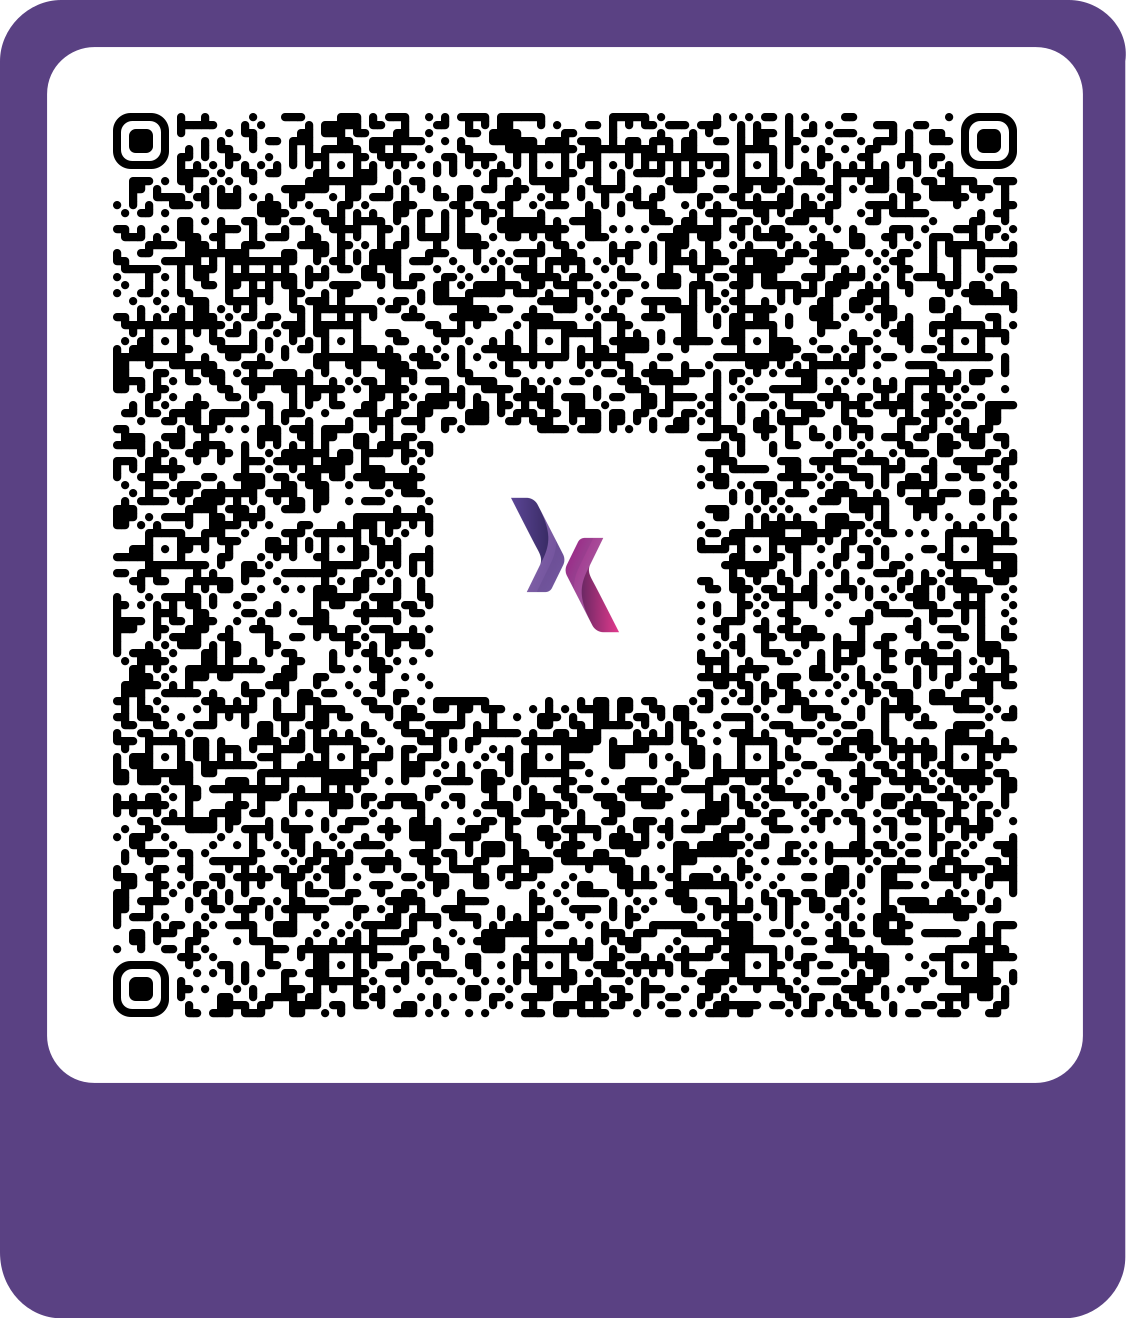
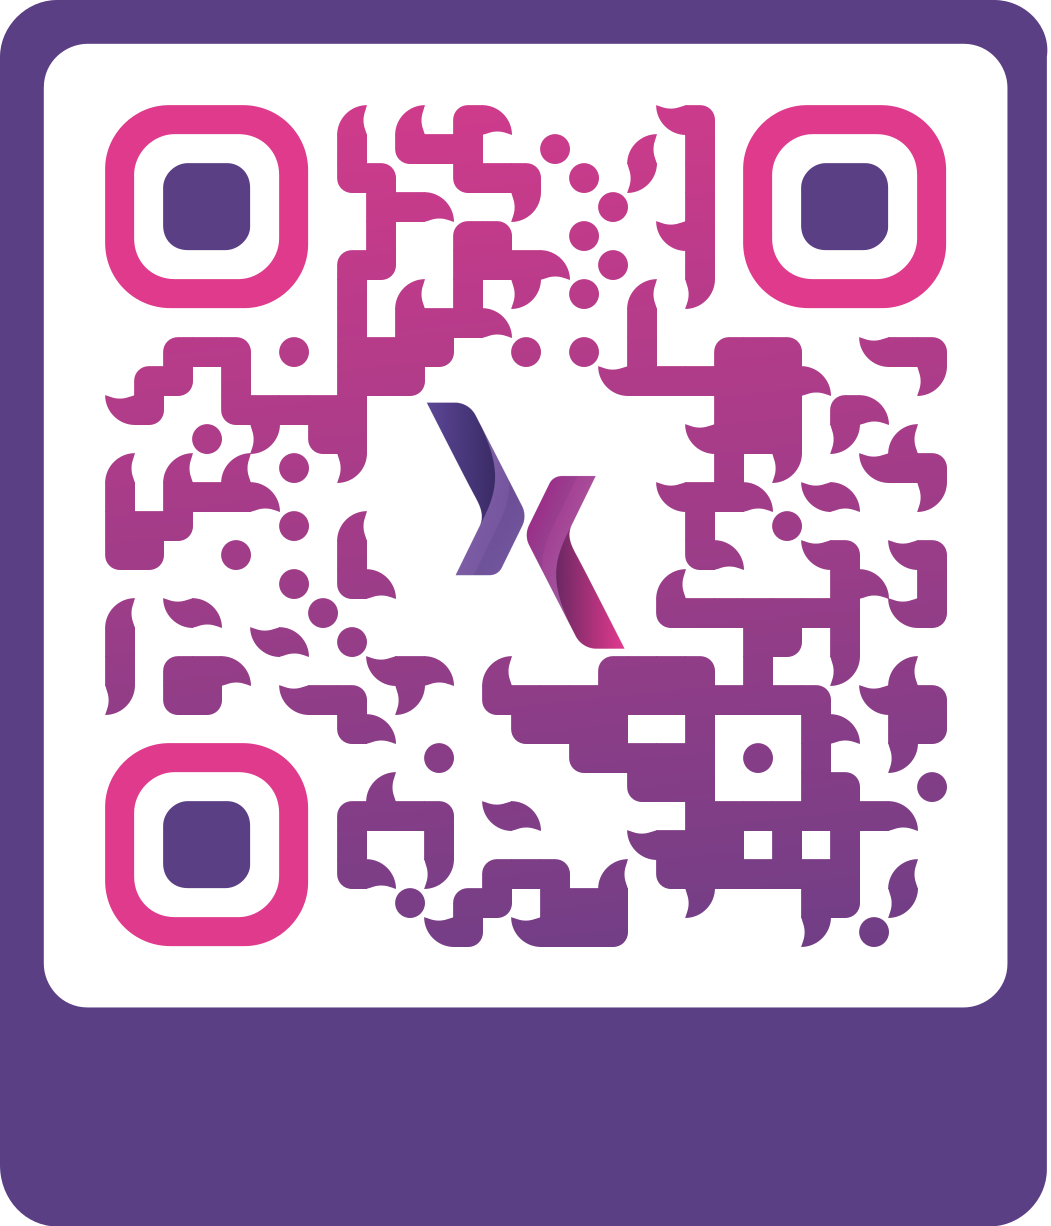
change qrcode to maps.seekode.dev from big map url. I also implemented an functionality for limit windows resize (one windows os only for now)

diff --git a/lib/main.dart b/lib/main.dart
@@ -1,13 +1,30 @@
+import 'dart:io';
+
+import 'package:flutter/foundation.dart';
 import 'package:flutter/material.dart';
 import 'package:flutter_gen/gen_l10n/app_localizations.dart';
 import 'package:flutter_riverpod/flutter_riverpod.dart';
+import 'package:window_manager/window_manager.dart';
 
 import 'app_themes.dart';
 import 'providers/language/language.dart';
 import 'providers/theme/theme_state.dart';
 import 'screens/home_screen.dart';
 
-void main() {
+void main() async {
+  if (!kIsWeb && Platform.isWindows) {
+    WidgetsFlutterBinding.ensureInitialized();
+    // Must add this line.
+    await windowManager.ensureInitialized();
+    WindowOptions windowOptions = const WindowOptions(
+      minimumSize: Size(350, 500),
+      center: true,
+    );
+    windowManager.waitUntilReadyToShow(windowOptions, () async {
+      await windowManager.show();
+      await windowManager.focus();
+    });
+  }
   runApp(const ProviderScope(child: MyApp()));
 }
 

diff --git a/macos/Flutter/GeneratedPluginRegistrant.swift b/macos/Flutter/GeneratedPluginRegistrant.swift
@@ -5,8 +5,12 @@
 import FlutterMacOS
 import Foundation
 
+import screen_retriever
 import url_launcher_macos
+import window_manager
 
 func RegisterGeneratedPlugins(registry: FlutterPluginRegistry) {
+  ScreenRetrieverPlugin.register(with: registry.registrar(forPlugin: "ScreenRetrieverPlugin"))
   UrlLauncherPlugin.register(with: registry.registrar(forPlugin: "UrlLauncherPlugin"))
+  WindowManagerPlugin.register(with: registry.registrar(forPlugin: "WindowManagerPlugin"))
 }

diff --git a/linux/flutter/generated_plugin_registrant.cc b/linux/flutter/generated_plugin_registrant.cc
@@ -6,10 +6,18 @@
 
 #include "generated_plugin_registrant.h"
 
+#include <screen_retriever/screen_retriever_plugin.h>
 #include <url_launcher_linux/url_launcher_plugin.h>
+#include <window_manager/window_manager_plugin.h>
 
 void fl_register_plugins(FlPluginRegistry* registry) {
+  g_autoptr(FlPluginRegistrar) screen_retriever_registrar =
+      fl_plugin_registry_get_registrar_for_plugin(registry, "ScreenRetrieverPlugin");
+  screen_retriever_plugin_register_with_registrar(screen_retriever_registrar);
   g_autoptr(FlPluginRegistrar) url_launcher_linux_registrar =
       fl_plugin_registry_get_registrar_for_plugin(registry, "UrlLauncherPlugin");
   url_launcher_plugin_register_with_registrar(url_launcher_linux_registrar);
+  g_autoptr(FlPluginRegistrar) window_manager_registrar =
+      fl_plugin_registry_get_registrar_for_plugin(registry, "WindowManagerPlugin");
+  window_manager_plugin_register_with_registrar(window_manager_registrar);
 }

diff --git a/windows/flutter/generated_plugin_registrant.cc b/windows/flutter/generated_plugin_registrant.cc
@@ -6,9 +6,15 @@
 
 #include "generated_plugin_registrant.h"
 
+#include <screen_retriever/screen_retriever_plugin.h>
 #include <url_launcher_windows/url_launcher_windows.h>
+#include <window_manager/window_manager_plugin.h>
 
 void RegisterPlugins(flutter::PluginRegistry* registry) {
+  ScreenRetrieverPluginRegisterWithRegistrar(
+      registry->GetRegistrarForPlugin("ScreenRetrieverPlugin"));
   UrlLauncherWindowsRegisterWithRegistrar(
       registry->GetRegistrarForPlugin("UrlLauncherWindows"));
+  WindowManagerPluginRegisterWithRegistrar(
+      registry->GetRegistrarForPlugin("WindowManagerPlugin"));
 }
